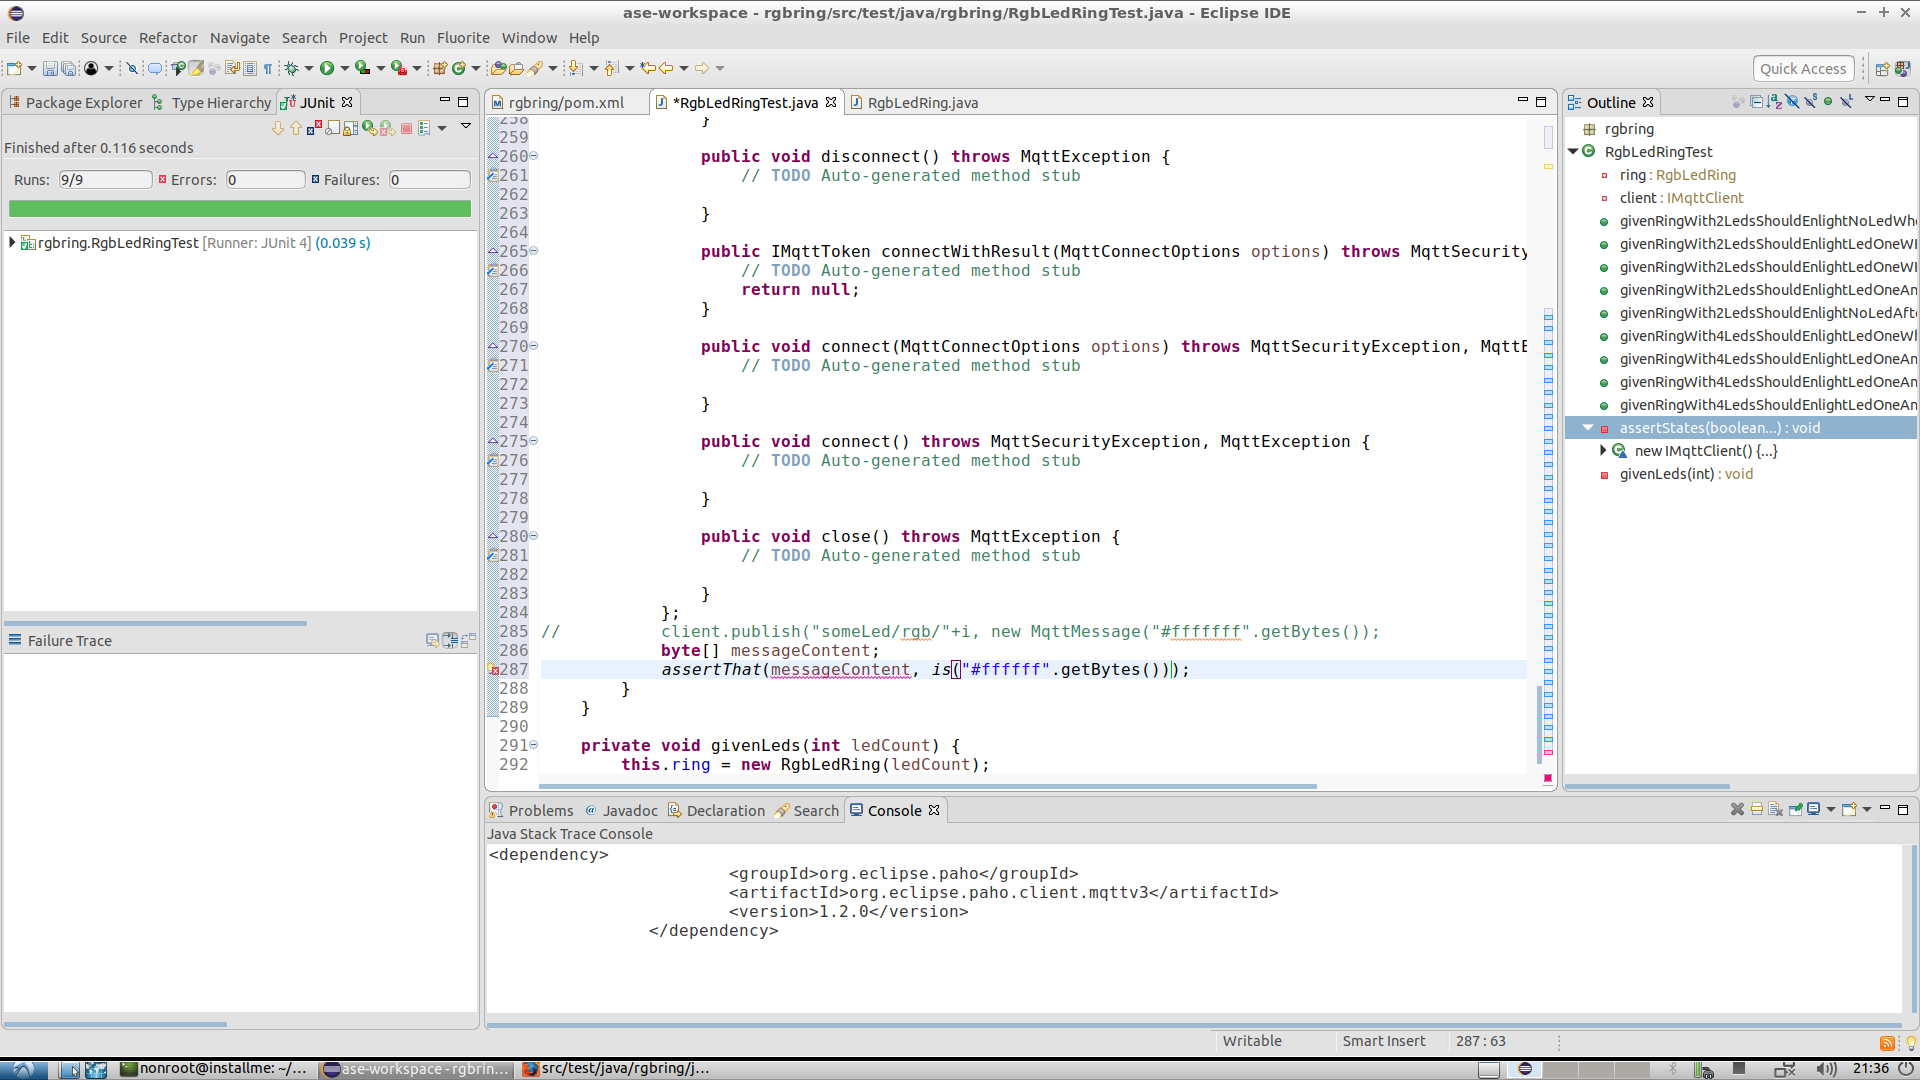
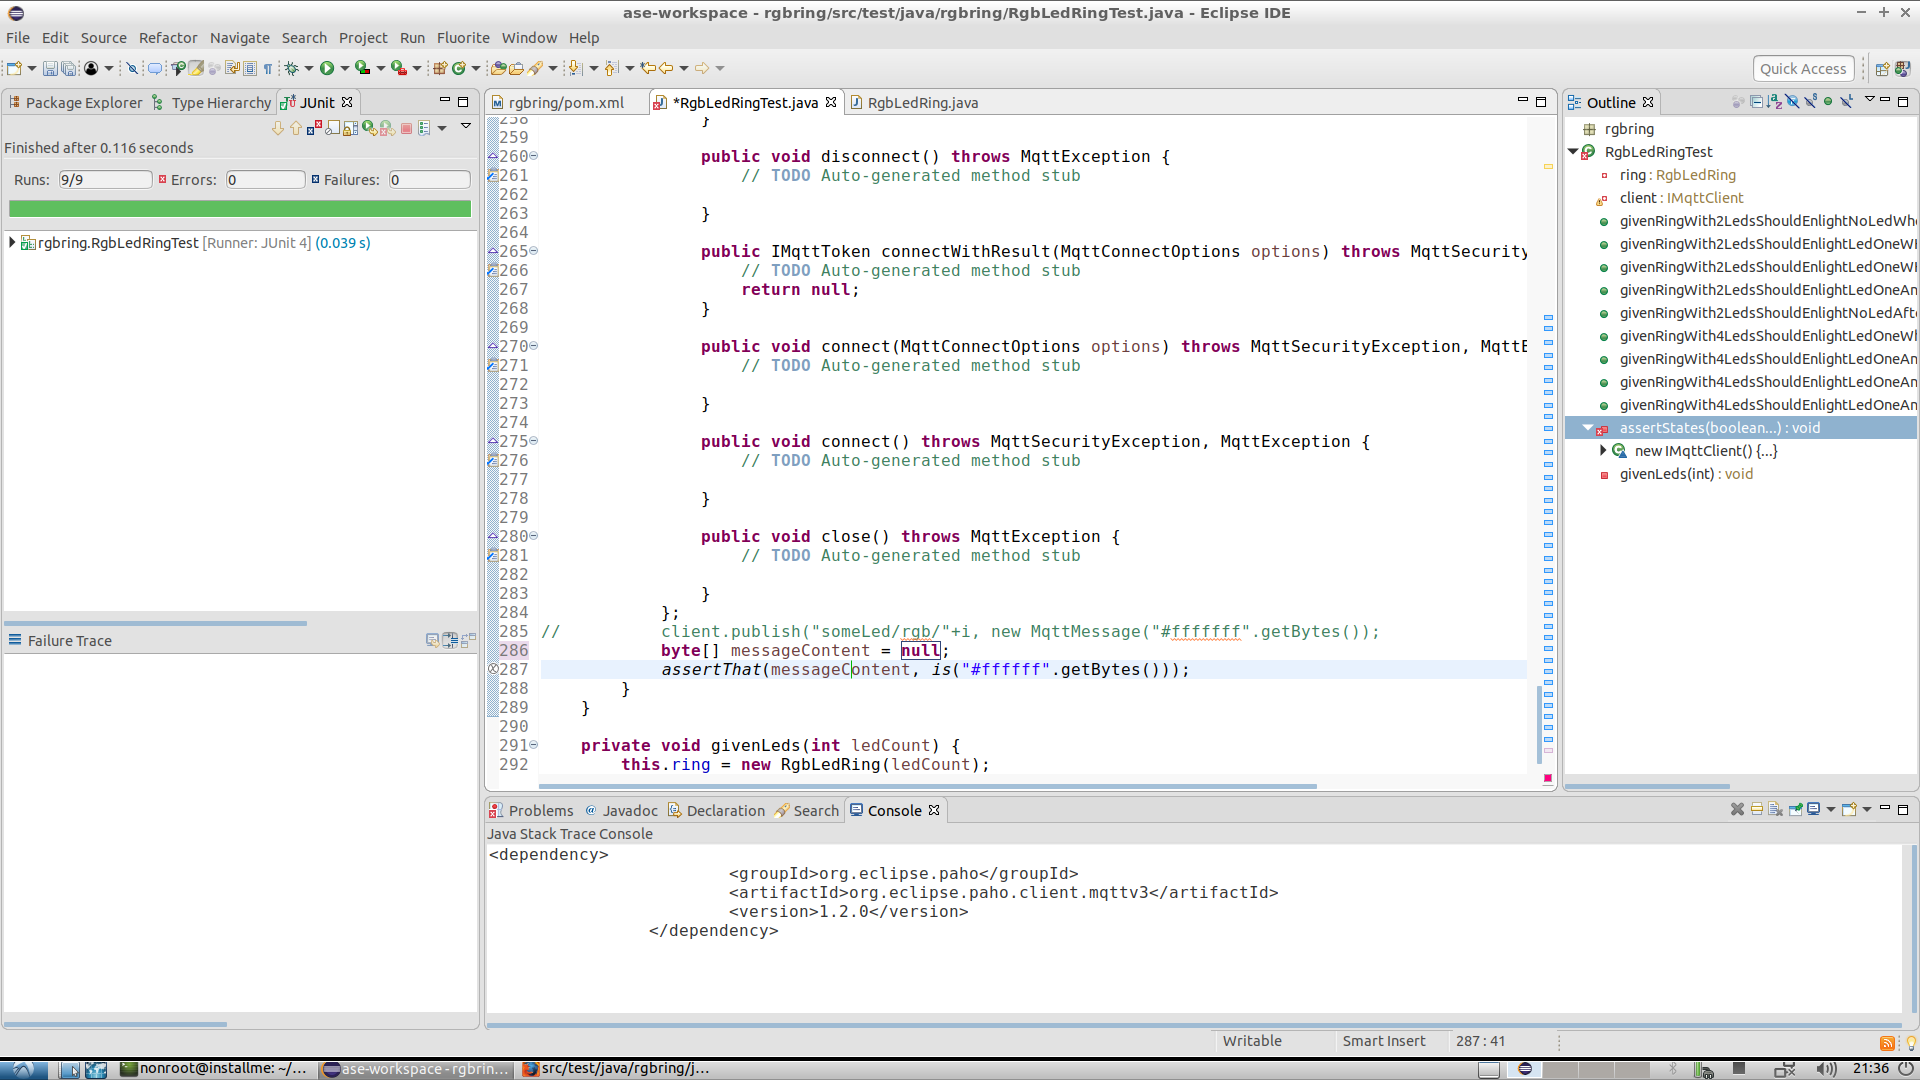
autocommit on change

Changed region(s): [[0.25, 0.0917, 0.2812, 0.6417], [0.4688, 0.5806, 0.5, 0.6111]]

diff --git a/src/test/java/rgbring/RgbLedRingTest.java b/src/test/java/rgbring/RgbLedRingTest.java
@@ -283,7 +283,7 @@ public class RgbLedRingTest {
 				}
 			};
 //			client.publish("someLed/rgb/"+i, new MqttMessage("#fffffff".getBytes());
-			byte[] messageContent;
+			byte[] messageContent = null;
 			assertThat(messageContent, is("#ffffff".getBytes()));
 		}
 	}
